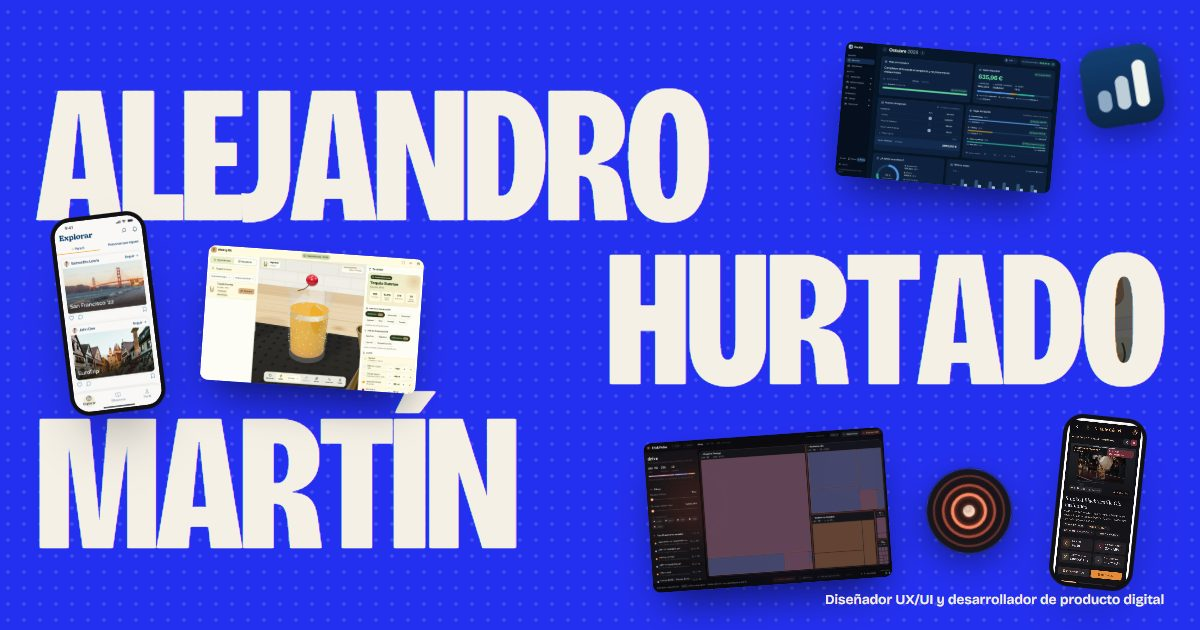
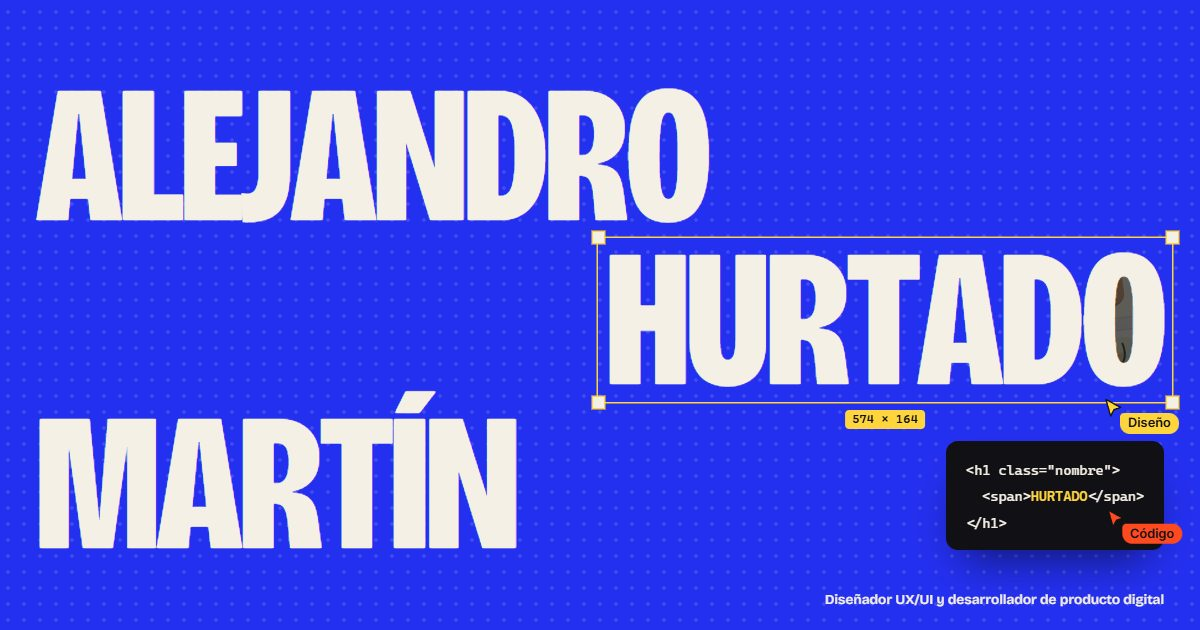
Portada: el nombre como elemento en edición
Las pantallas e iconos flotantes dan paso a un marco de selección con
medidas reales que recorre el nombre, su código al lado y dos cursores,
Diseño y Código. La entrada por la O no cambia.

La ventana de la O ahora se mide cuando cambia el tamaño de la letra y
después de cada refresh de ScrollTrigger: antes quedaba desplazada y
asomaba fuera de la letra.

Changed region(s): [[0.4933, 0.0603, 0.9867, 0.9952], [0.0308, 0.3317, 0.37, 0.6937]]

diff --git a/src/js/main.js b/src/js/main.js
@@ -84,7 +84,7 @@
   /* Portada: del póster al muro entrando por la O -------------------------- */
   const hero = $('.hero');
   if (hero && fx) {
-    const nombre = $('.nombre'), portal = $('.portal'), o = $('.o'), pegados = $$('.pegado');
+    const nombre = $('.nombre'), portal = $('.portal'), o = $('.o');
     // El hueco de la O: centro y radios en proporción al tamaño de la letra.
     const K = { cy: .52, rx: .2, ry: .29 };
     let cx, cy, rx, ry;
@@ -103,21 +103,19 @@
       portal.style.clipPath = `ellipse(${rx * zoom.s}px ${ry * zoom.s}px at ${cx}px ${cy}px)`;
     };
     medir(); pintar();
-    ST.addEventListener('refreshInit', () => { medir(); pintar(); });
-    document.fonts?.ready.then(() => { medir(); pintar(); ST.refresh(); });
+    ST.addEventListener('refresh', () => { medir(); pintar(); });
+    // La fuente definitiva cambia el tamaño de la letra: se vuelve a medir cada vez que eso ocurre.
+    let primera = true;
+    new ResizeObserver(() => { medir(); pintar(); if (primera) primera = false; else ST.refresh(); }).observe(o);
 
-    // Entrada: letras que caen y pantallas que aterrizan sobre el póster.
+    // Entrada: letras que caen.
     G.from($$('.l', nombre), { yPercent: 115, duration: 1.1, ease: 'expo.out', stagger: { each: .03, from: 'random' } });
-    G.from(pegados, { scale: 2.1, autoAlpha: 0, rotate: () => G.utils.random(-40, 40), duration: .55, ease: 'back.out(2.4)', stagger: .07, delay: .55 });
     G.from('.hero-nota, .hero-rol', { autoAlpha: 0, duration: .8, delay: 1.5 });
     G.fromTo('.garabato path', { strokeDasharray: 1, strokeDashoffset: 1 }, { strokeDashoffset: 0, duration: 1, delay: 1.7, ease: 'power2.inOut' });
 
     const tl = G.timeline({ defaults: { ease: 'none' }, scrollTrigger: { trigger: hero, start: 'top top', end: ancho ? '+=340%' : '+=280%', pin: true, scrub: .5, anticipatePin: 1 } });
     tl.to('.hero-nota, .hero-rol', { autoAlpha: 0, duration: .08 }, 0);
-    pegados.forEach(p => {
-      const r = p.getBoundingClientRect(), dx = r.left + r.width / 2 - innerWidth / 2, dy = r.top + r.height / 2 - innerHeight / 2;
-      tl.to(p, { x: dx * 1.5, y: dy * 1.5, rotate: G.utils.random(-70, 70), autoAlpha: 0, duration: .24, ease: 'power2.in' }, 0);
-    });
+    tl.fromTo('.ui', { autoAlpha: 1, scale: 1 }, { autoAlpha: 0, scale: 1.12, duration: .1 }, 0);
     tl.to(zoom, { s: 70, duration: .5, ease: 'expo.in', onUpdate: pintar }, .04);
     tl.set(nombre, { autoAlpha: 0 }, .55);
     tl.set(portal, { clipPath: 'none' }, .56);
@@ -131,51 +129,40 @@
 
     // Parallax leve de la trama según la profundidad.
     G.to('.hero .trama', { yPercent: -8, scrollTrigger: { trigger: hero, start: 'top top', end: '+=340%', scrub: true } });
-  } else if (hero && !fx) {
-    $$('.pegado').forEach(p => { p.style.position = 'absolute'; });
   }
 
-  if (!fine) { const n = $('.hero-nota span'); if (n) n.textContent = 'desliza hacia abajo'; }
-
-  /* Pantallas que se arrastran (portada) ----------------------------------- */
-  const arrastre = el => {
-    el.addEventListener('pointerdown', e => {
-      if (e.pointerType === 'touch') return;
-      e.preventDefault();
-      el.setPointerCapture(e.pointerId);
-      el.classList.add('is-drag');
-      el.style.zIndex = ++arrastre.z;
-      el._x ??= 0; el._y ??= 0; el._r ??= 0;
-      const ox = e.clientX - el._x, oy = e.clientY - el._y;
-      let lx = e.clientX, vx = 0;
-      const move = ev => {
-        vx = ev.clientX - lx; lx = ev.clientX;
-        const x = ev.clientX - ox, y = ev.clientY - oy;
-        el._x = x; el._y = y;
-        el.style.transform = `translate(${x}px, ${y}px) rotate(${el._r + vx * .9}deg)`;
-      };
-      const up = () => {
-        el.classList.remove('is-drag');
-        el._r += vx * .9;
-        el.style.transform = `translate(${el._x}px, ${el._y}px) rotate(${el._r}deg)`;
-        el.removeEventListener('pointermove', move);
-        el.removeEventListener('pointerup', up);
-        el.removeEventListener('pointercancel', up);
-      };
-      el.addEventListener('pointermove', move);
-      el.addEventListener('pointerup', up);
-      el.addEventListener('pointercancel', up);
-    });
-  };
-  arrastre.z = 5;
-  // Un envoltorio interior evita pelearse con los transform de GSAP en la pieza de portada.
-  if (fine) $$('.pegado').forEach(p => {
-    const inner = document.createElement('div');
-    inner.className = 'pegado-in';
-    inner.append(...p.childNodes);
-    p.append(inner);
-    arrastre(inner);
-  });
+  /* Portada: el nombre como elemento en edición, en diseño y en código ------ */
+  const ui = $('.ui');
+  if (ui) {
+    const sel = $('.sel', ui), medida = $('.sel-medida', ui), dedo = $('.puntero--diseno', ui), texto = $('[data-fila]', ui);
+    const filas = $$('.fila');
+    let actual = 1, encima = false;
+    const marcar = i => {
+      actual = i;
+      const l = $$('.l', filas[i]), h = hero.getBoundingClientRect(), f = filas[i].getBoundingClientRect();
+      const x = l[0].getBoundingClientRect().left - h.left - 8, w = l[l.length - 1].getBoundingClientRect().right - h.left + 8 - x;
+      const y = f.top - h.top, alto = f.height;
+      Object.assign(sel.style, { left: `${x}px`, top: `${y}px`, width: `${w}px`, height: `${alto}px` });
+      dedo.style.left = `${Math.min(x + w - 4, innerWidth - 96)}px`;
+      dedo.style.top = `${y + alto - 4}px`;
+      medida.textContent = `${Math.round(w)} × ${Math.round(alto)}`;
+      texto.textContent = l.map(c => c.textContent).join('');
+      ui.classList.add('listo');
+    };
+    // Solo se recoloca con la portada en reposo: durante la entrada por la O el nombre está escalado.
+    const enReposo = () => scrollY < 40;
+    new ResizeObserver(() => { if (enReposo()) marcar(actual); }).observe($('.o'));
+    if (fx) setInterval(() => { if (!encima && enReposo()) marcar((actual + 1) % filas.length); }, 3000);
+    if (fine) {
+      hero.addEventListener('pointermove', e => {
+        encima = true;
+        const i = filas.findIndex(f => e.clientY < f.getBoundingClientRect().bottom);
+        if (i >= 0 && i !== actual && enReposo()) marcar(i);
+      });
+      hero.addEventListener('pointerleave', () => { encima = false; });
+    }
+    if (fx) G.to('.puntero--codigo', { x: 9, y: -7, duration: 1.5, ease: 'sine.inOut', yoyo: true, repeat: -1 });
+  }
 
   /* Carteles: scroll horizontal en escritorio, pila en móvil --------------- */
   const carril = $('.carril');

diff --git a/src/css/estilos.css b/src/css/estilos.css
@@ -12,6 +12,7 @@
   --serif: 'Instrument Serif', Georgia, serif;
   --mano: 'Caveat', 'Segoe Print', cursive;
   --texto: 'Inter', system-ui, sans-serif;
+  --mono: ui-monospace, 'Cascadia Code', Consolas, monospace;
   --gutter: clamp(16px, 3vw, 44px);
   --ease: cubic-bezier(.16, 1, .3, 1);
 }
@@ -68,13 +69,26 @@ em { font-family: var(--serif); font-style: italic; font-weight: 400; letter-spa
 .fila--2 { text-align: right; }
 .fila--3 { text-align: left; }
 .l { display: inline-block; }
-.pegados { position: absolute; inset: 0 0 auto; height: 100svh; }
-.pegado { position: absolute; left: calc(var(--x) * 1%); top: calc(var(--y) * 1%); width: calc(var(--w) * 1vw); rotate: var(--r); cursor: grab; touch-action: pan-y; }
-.pegado img { width: 100%; pointer-events: none; }
-.pegado--libre img { filter: drop-shadow(0 10px 14px rgba(0, 0, 0, .35)); }
-.pegado--pan img { border-radius: 8px; box-shadow: 0 22px 40px -14px rgba(0, 0, 0, .6); }
-.pegado .phone { width: 100%; padding: 4px; border-radius: 20px; }
-.pegado .phone-screen { border-radius: 16px; }
+.ui { position: absolute; inset: 0 0 auto; height: 100svh; pointer-events: none; opacity: 0; }
+.ui.listo { opacity: 1; }
+/* Selección de editor sobre el nombre; left, top, width y height los pone main.js con medidas reales. */
+.sel { position: absolute; box-shadow: 0 0 0 1.5px var(--limon); transition: left .55s var(--ease), top .55s var(--ease), width .55s var(--ease), height .55s var(--ease); }
+.sel i { position: absolute; width: 11px; height: 11px; margin: -5.5px; background: var(--papel); box-shadow: 0 0 0 1.5px var(--limon); }
+.sel i:nth-child(2) { left: 100%; }
+.sel i:nth-child(3) { top: 100%; }
+.sel i:nth-child(4) { left: 100%; top: 100%; }
+.sel-medida { position: absolute; left: 50%; top: 100%; translate: -50% 8px; padding: 3px 7px; border-radius: 4px; background: var(--limon); color: var(--tinta); font: 600 .78rem/1 var(--mono); white-space: nowrap; }
+.puntero { position: absolute; display: flex; align-items: flex-start; pointer-events: none; }
+.puntero svg { width: 19px; flex: none; }
+.puntero span { margin: 15px 0 0 -3px; padding: 4px 8px; border-radius: 4px 10px 10px 10px; font: 600 .8rem/1 var(--texto); color: var(--tinta); }
+.puntero--diseno { color: var(--limon); transition: left .55s var(--ease), top .55s var(--ease); }
+.puntero--diseno span { background: var(--limon); }
+.puntero--codigo { right: -18px; top: 62%; color: var(--tomate); }
+.puntero--codigo span { background: var(--tomate); }
+.inspector { position: absolute; right: var(--gutter); top: 70%; padding: 15px 20px; border-radius: 12px; background: var(--tinta); box-shadow: 0 24px 44px -18px rgba(0, 0, 0, .6); }
+.inspector pre { margin: 0; }
+.inspector code { font: 400 clamp(.82rem, 1.15vw, 1rem)/1.6 var(--mono); color: var(--papel); }
+.inspector b { font-weight: 600; color: var(--limon); }
 .hero-nota { position: absolute; left: var(--gutter); top: calc(100svh - 58px); display: flex; align-items: flex-end; gap: 8px; font: 600 clamp(1.6rem, 2.4vw, 2.2rem)/1 var(--mano); color: var(--limon); }
 .garabato { width: 66px; rotate: -8deg; }
 .hero-rol { position: absolute; right: var(--gutter); top: calc(100svh - 38px); font: 600 clamp(.85rem, 1.1vw, 1rem)/1.2 var(--display); text-align: right; }
@@ -89,7 +103,7 @@ em { font-family: var(--serif); font-style: italic; font-weight: 400; letter-spa
 
 html.fx .hero { height: 100svh; }
 html.fx .nombre { position: absolute; inset: 0; z-index: 2; }
-html.fx .pegados { z-index: 3; }
+html.fx .ui { z-index: 3; }
 html.fx .hero-nota, html.fx .hero-rol { z-index: 3; }
 html.fx .portal { position: absolute; inset: 0; z-index: 2; }
 html.fx .portal-frase { visibility: hidden; }
@@ -198,7 +212,7 @@ html.fx .portal-frase { visibility: hidden; }
 .lienzo-pie a { display: inline-flex; align-items: center; gap: .4em; color: var(--limon); font-weight: 600; }
 .lienzo-pie svg { width: 1.05em; }
 .banco-codigo pre { margin: 0; overflow-x: auto; }
-.banco-codigo code { font: 400 .84rem/1.65 ui-monospace, 'Cascadia Code', Consolas, monospace; color: #E9E5DC; }
+.banco-codigo code { font: 400 .84rem/1.65 var(--mono); color: #E9E5DC; }
 .banco-codigo i { font-style: normal; color: #B8A6FF; }
 .banco-codigo b { font-weight: 400; color: var(--limon); }
 .banco-codigo u { text-decoration: none; color: rgba(245, 240, 230, .55); }
@@ -374,14 +388,8 @@ html.cursor-activo .cursor { display: grid; }
   .fila--1 { font-size: 25.6vw; }
   .fila--2 { font-size: 31.4vw; text-align: left; }
   .fila--3 { font-size: 36.4vw; }
-  .pegado { width: calc(var(--w) * 2.1vw); }
-  .pegado:nth-child(n+7) { display: none; }
-  .pegado:nth-child(1) { left: 76%; top: 10%; }
-  .pegado:nth-child(2) { left: 5%; top: 9%; }
-  .pegado:nth-child(3) { left: 5%; top: 67%; }
-  .pegado:nth-child(4) { left: 60%; top: 68%; }
-  .pegado:nth-child(5) { left: 26%; top: 75%; }
-  .pegado:nth-child(6) { left: 54%; top: 17%; }
+  .inspector { right: auto; left: var(--gutter); top: 11svh; padding: 11px 15px; }
+  .puntero--codigo { right: -46px; }
   .hero-rol { left: var(--gutter); right: auto; top: calc(100svh - 84px); text-align: left; }
   .muro { grid-template-columns: repeat(3, 1fr); gap: 8px; }
   .muro-col:nth-child(4) { display: none; }
